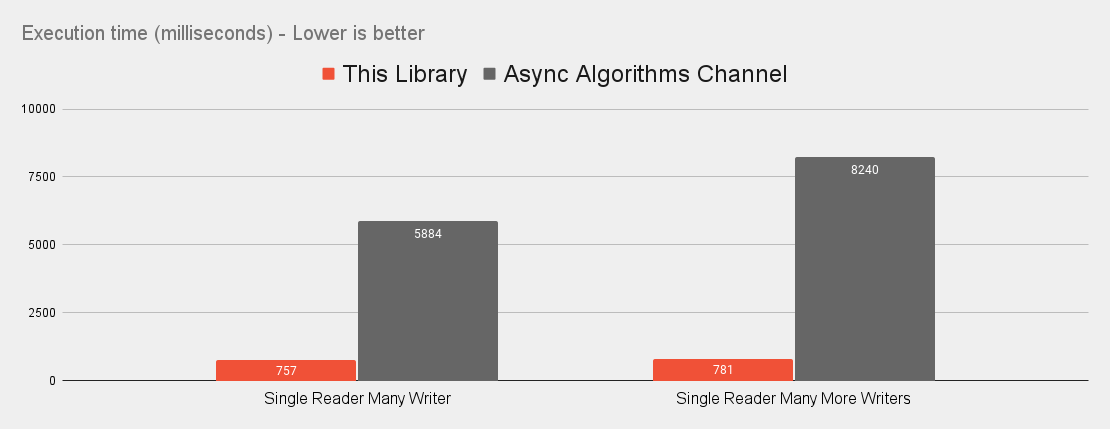
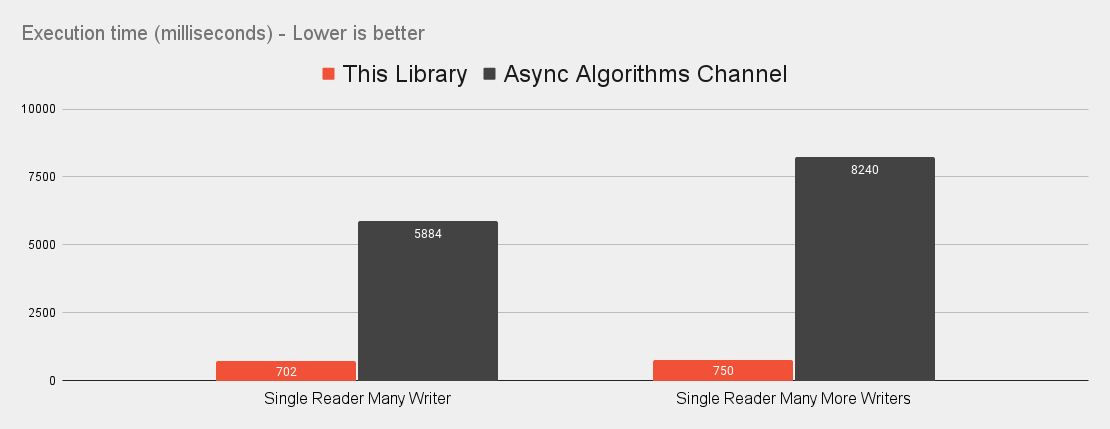
Fix build + additional test case

diff --git a/Sources/AsyncChannels/Synchronization.swift b/Sources/AsyncChannels/Synchronization.swift
@@ -1,11 +1,10 @@
 import Foundation
-import Collections
 
 @usableFromInline
 class AsyncSemaphore {
     private var permits: Int
     private var mutex = FastLock()
-    private var continuationQueue = Deque<UnsafeContinuation<Void, Never>>()
+    private var continuationQueue = LinkedList<UnsafeContinuation<Void, Never>>()
 
     @usableFromInline
     init(value: Int) {
@@ -21,7 +20,7 @@ class AsyncSemaphore {
                 self.mutex.unlock()
                 continuation.resume()
             } else {
-                self.continuationQueue.append(continuation)
+                self.continuationQueue.push(continuation)
                 self.mutex.unlock()
             }
         }
@@ -29,7 +28,7 @@ class AsyncSemaphore {
     
     func signal() {
         self.mutex.lock()
-        if let next = continuationQueue.popFirst() {
+        if let next = continuationQueue.pop() {
             self.mutex.unlock()
             next.resume()
         } else {

diff --git a/Tests/AsyncChannelsTests/AsyncChannelTests.swift b/Tests/AsyncChannelsTests/AsyncChannelTests.swift
@@ -86,6 +86,26 @@ final class AsyncTest: XCTestCase {
         await <-done
     }
     
+    func testBufferOrdering() async {
+        let a = Channel<Int>(capacity: 2)
+        let resume = Channel<Bool>()
+        let done = Channel<Bool>()
+
+        Task {
+            await a <- 1
+            await a <- 2
+            await resume <- true
+            await a <- 3
+            await done <- true
+        }
+        await <-resume
+
+        await assertChanRx(a, 1)
+        await assertChanRx(a, 2)
+        await assertChanRx(a, 3)
+        await <-done
+    }
+    
     func testLoopChan() async {
         let a = Channel<Bool>(capacity: 10)
         let done = Channel<Int>()

diff --git a/Benchmarks/Readme.md b/Benchmarks/Readme.md
@@ -12,11 +12,11 @@ All tests performed on an M1 max
 
 | Test Case  | Go (seconds) | Swift (seconds) | Swift `n` times slower than go  |
 | --------------------------- | ----------- | ----------- | ----- |
-| testSingleReaderManyWriter  | `0.318661688` | `0.7567623973` | `2.37x`  |
-| testHighConcurrency         | `0.328830854` | `0.7811600089` | `2.38x`  |
-| testHighConcurrencyBuffered | `0.362022931` | `1.191550505` | `3.29x`  |
-| testSyncRw                  | `0.132789557` | `1.517975307` | `11.43x` |
-| testSelect                  | `0.306248166` | `1.376920402` | `4.50x`  |
+| testSingleReaderManyWriter  | `0.318661688` | `0.702384305` | `2.20x`  |
+| testHighConcurrency         | `0.328830854` | `0.7504368067` | `2.28x`  |
+| testHighConcurrencyBuffered | `0.362022931` | `1.144838405` | `3.16x`  |
+| testSyncRw                  | `0.132789557` | `1.547898102` | `11.66x` |
+| testSelect                  | `0.306248166` | `1.401787996` | `4.58x`  |
 
 ## Async Channels vs Async Algorithms AsyncChannel
 
@@ -24,8 +24,8 @@ Apple has their own channel implementation in the [swift-async-algorithms packag
 
 | Test Case  | This Library | Async Algorithms `AsyncChannel` | This library `n` times faster   |
 | --------------------------- | ----------- | ----------- | ----- |
-| testSingleReaderManyWriter  | `0.7567623973` | `5.884461689` | `7.78x`  |
-| testHighConcurrency         | `0.7811600089` | `8.240125799` | `10.55x`  |
+| testSingleReaderManyWriter  | `0.702384305` | `5.884461689` | `8.38x`  |
+| testHighConcurrency         | `0.7504368067` | `8.240125799` | `10.98x`  |
 
 ### Why is swift slower than go?
 
